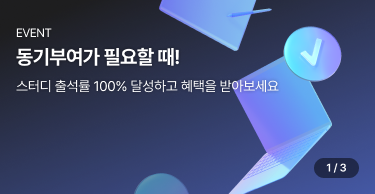
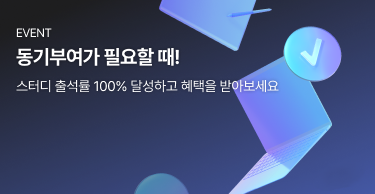
홈 - 베너 페이지네이션

Changed region(s): [[0.8213, 0.8041, 0.968, 0.9278]]

diff --git a/src/components/Home/Banner-Slide.tsx b/src/components/Home/Banner-Slide.tsx
@@ -50,6 +50,11 @@ function Banner_Slide() {
                                     className="h-[194px] w-[375px]"
                                     src={slide.src}
                                 />
+                                <div className="flex justify-center items-center absolute w-[45px] h-[20px] bg-black bg-opacity-50 rounded-xl bottom-3 right-5">
+                                    <text className="text-[12px] text-white">
+                                        {slide.id} / {slideData.length}
+                                    </text>
+                                </div>
                             </button>
                         </SwiperSlide>
                     ))}
